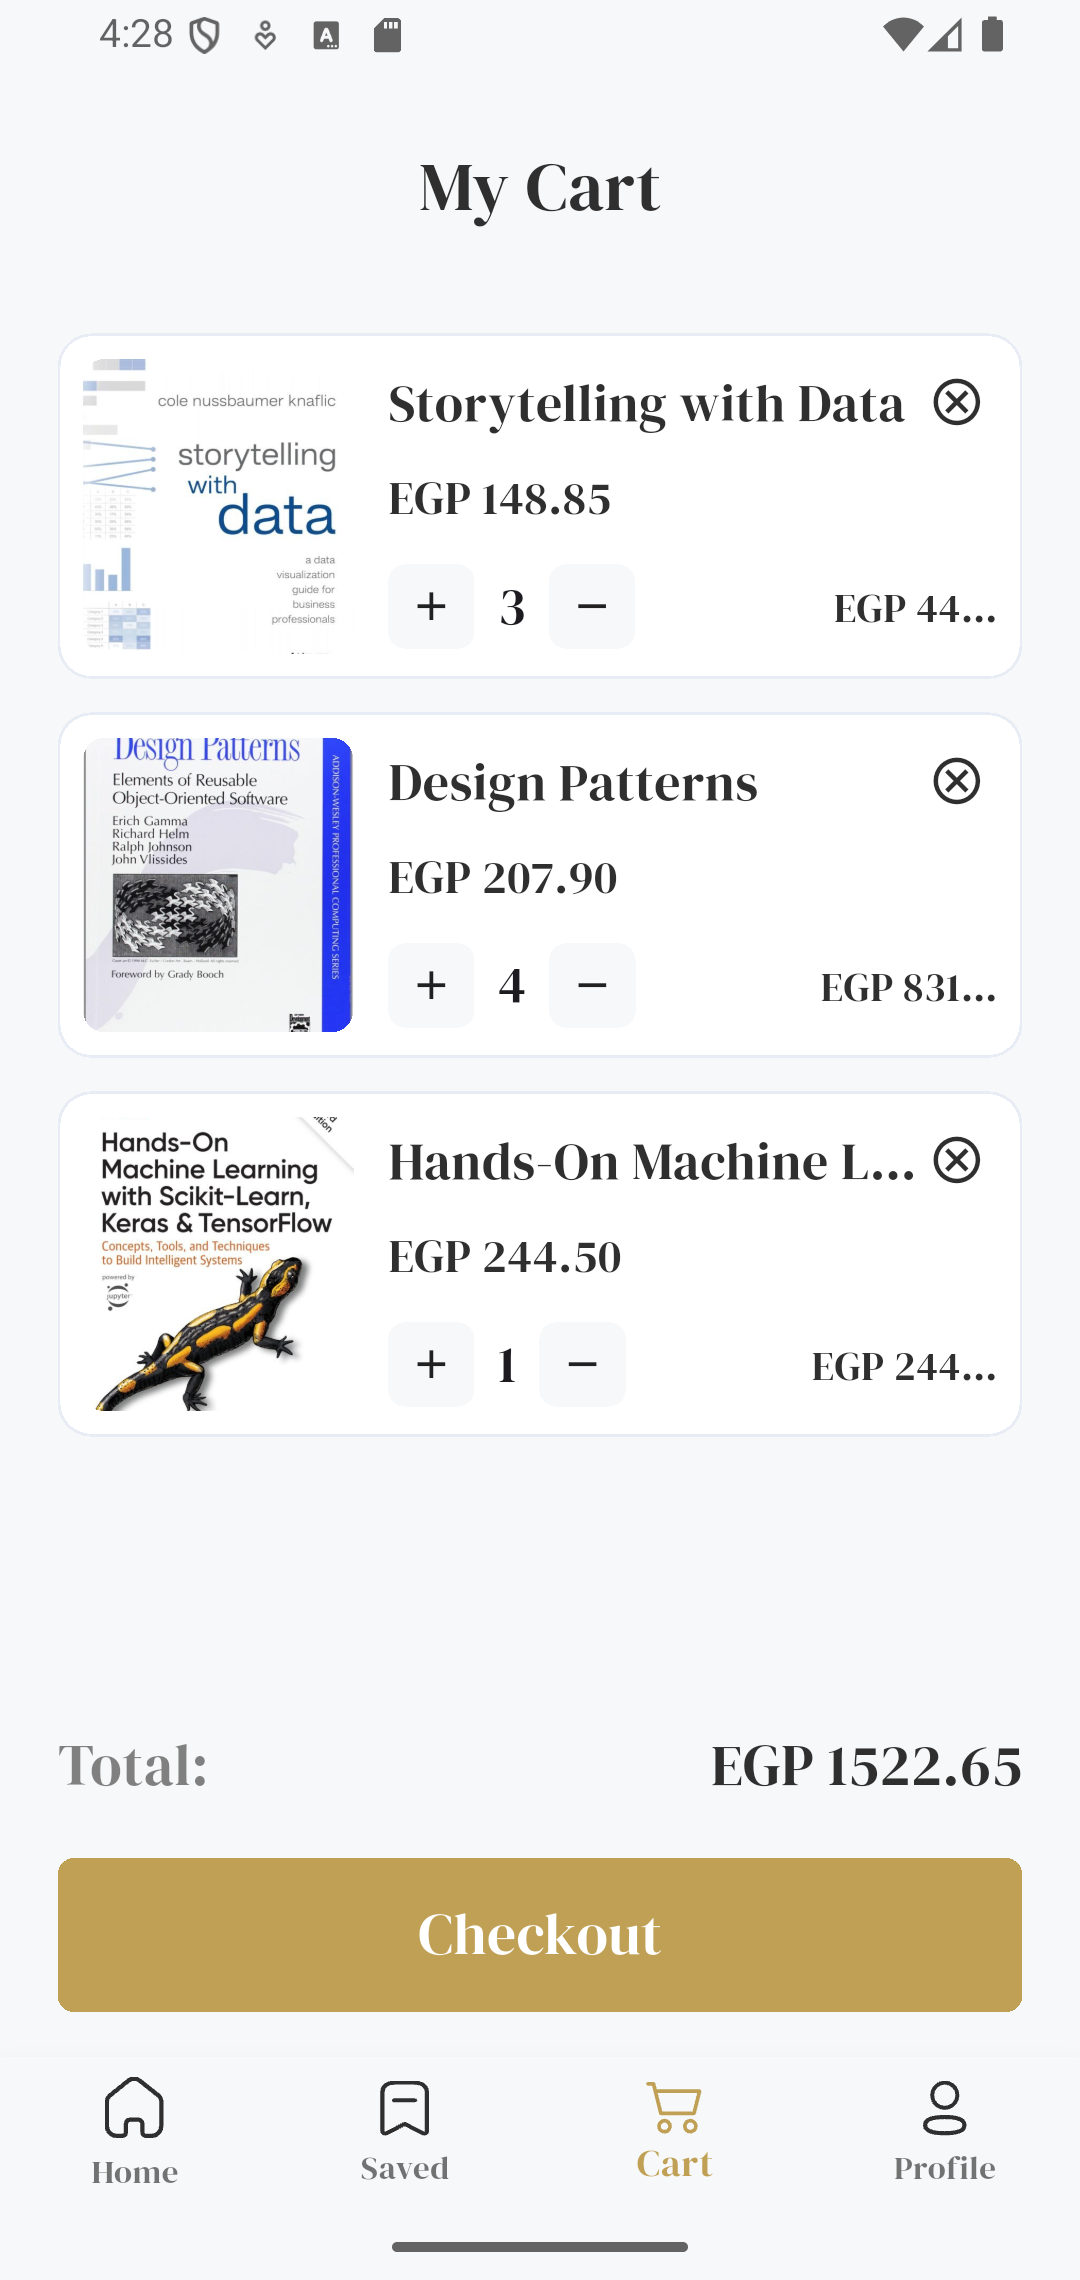
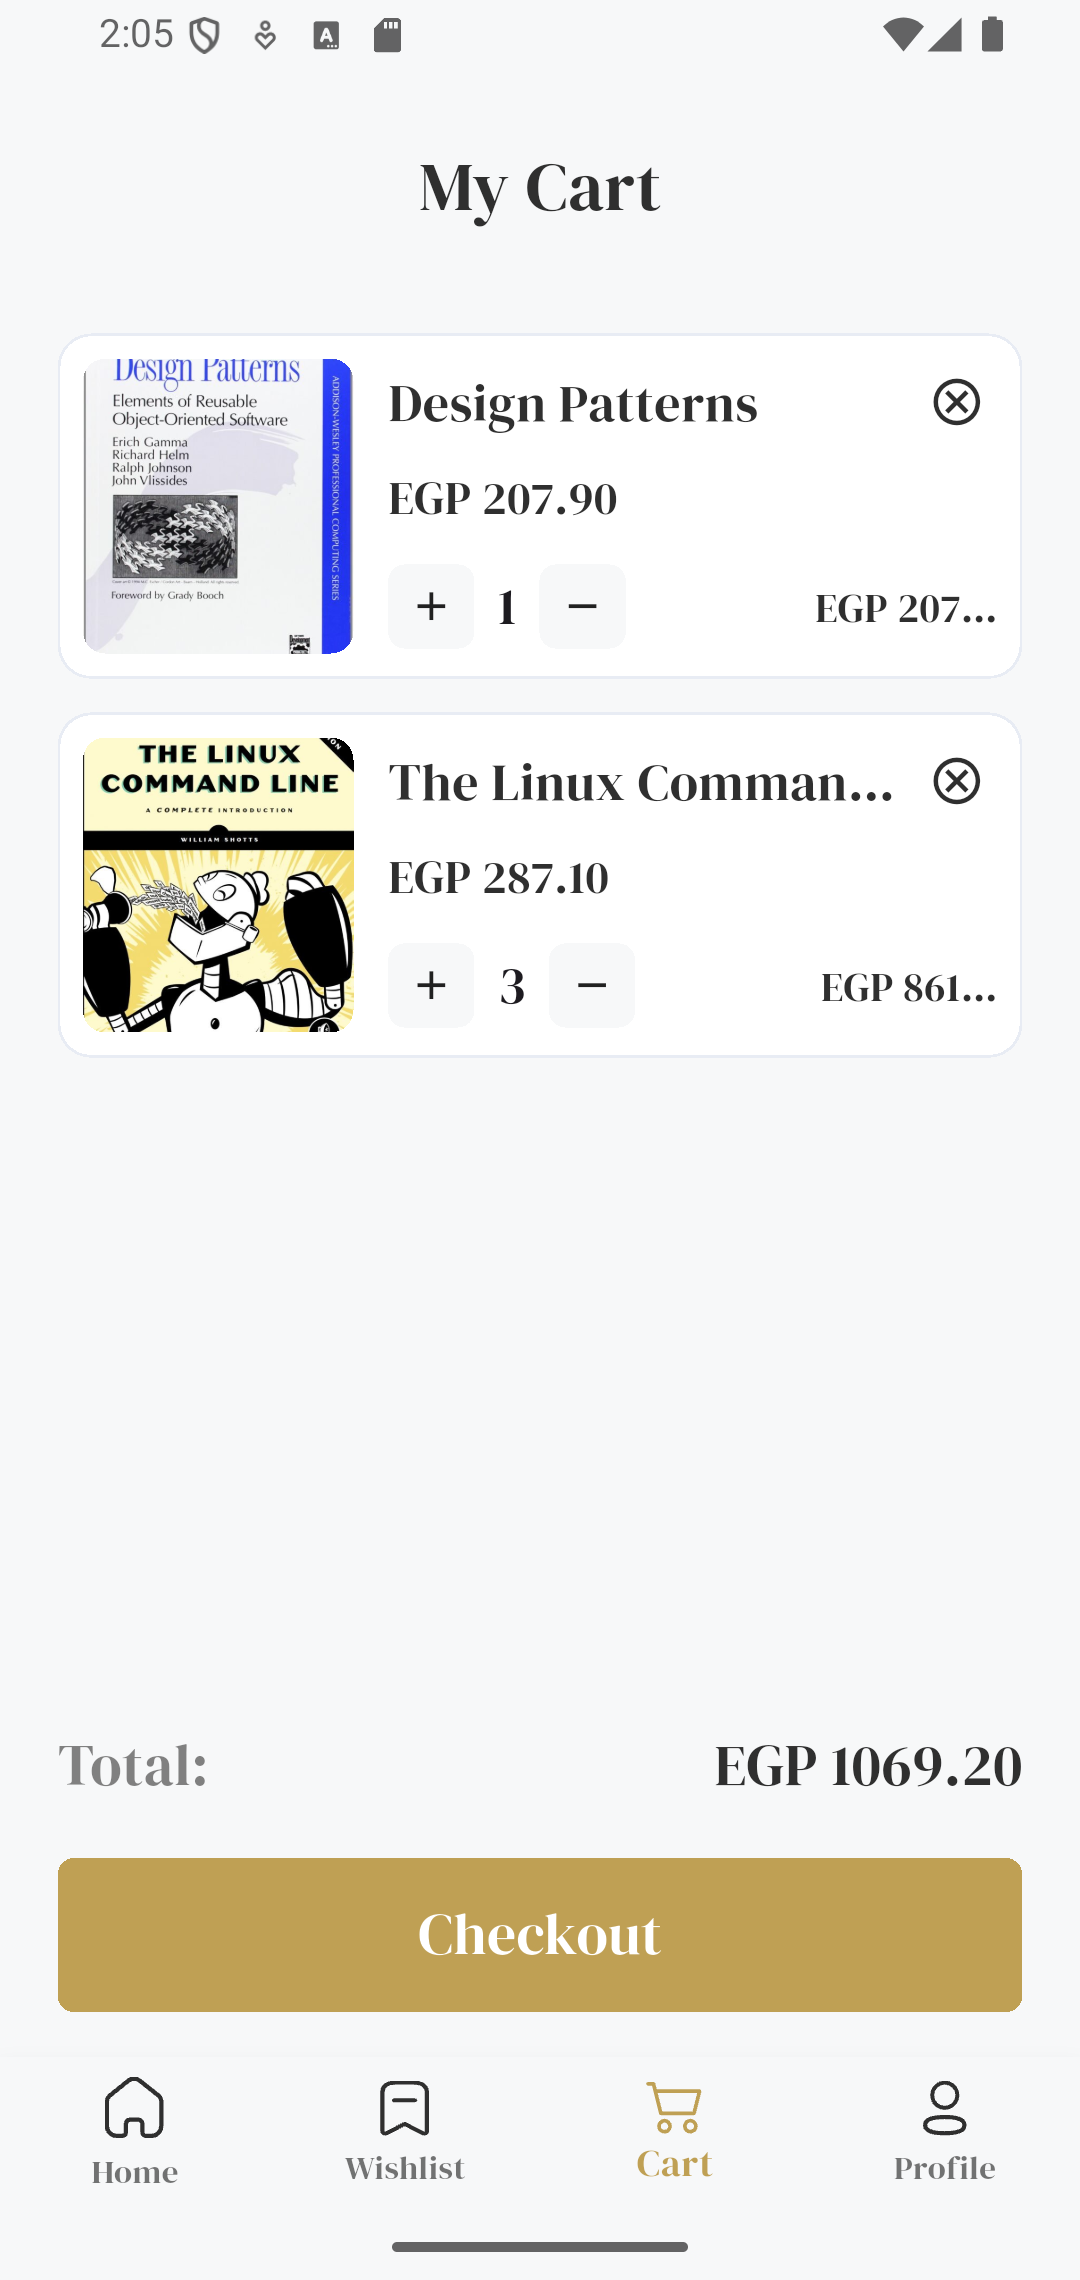
add cheakout screen & success screens

diff --git a/README.md b/README.md
@@ -86,8 +86,3 @@ GitHub: [@habibamahmoud5](https://github.com/habibamahmoud5)
   Made with ❤ using Flutter
 </p>
 
-
-```bash
-git clone https://github.com/habibamahmoud5/bookia_app.git
-
-```
